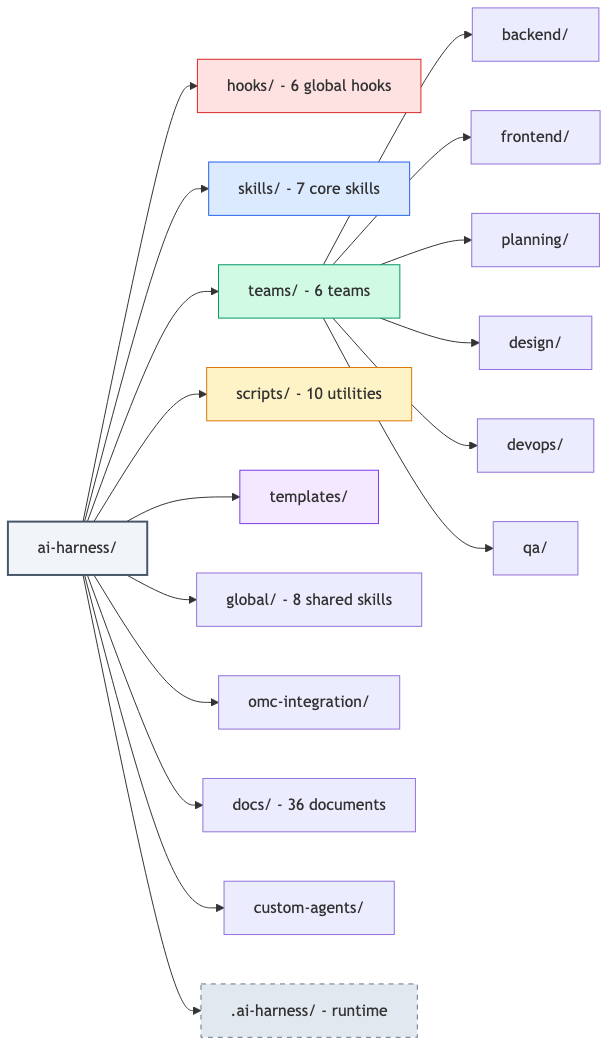
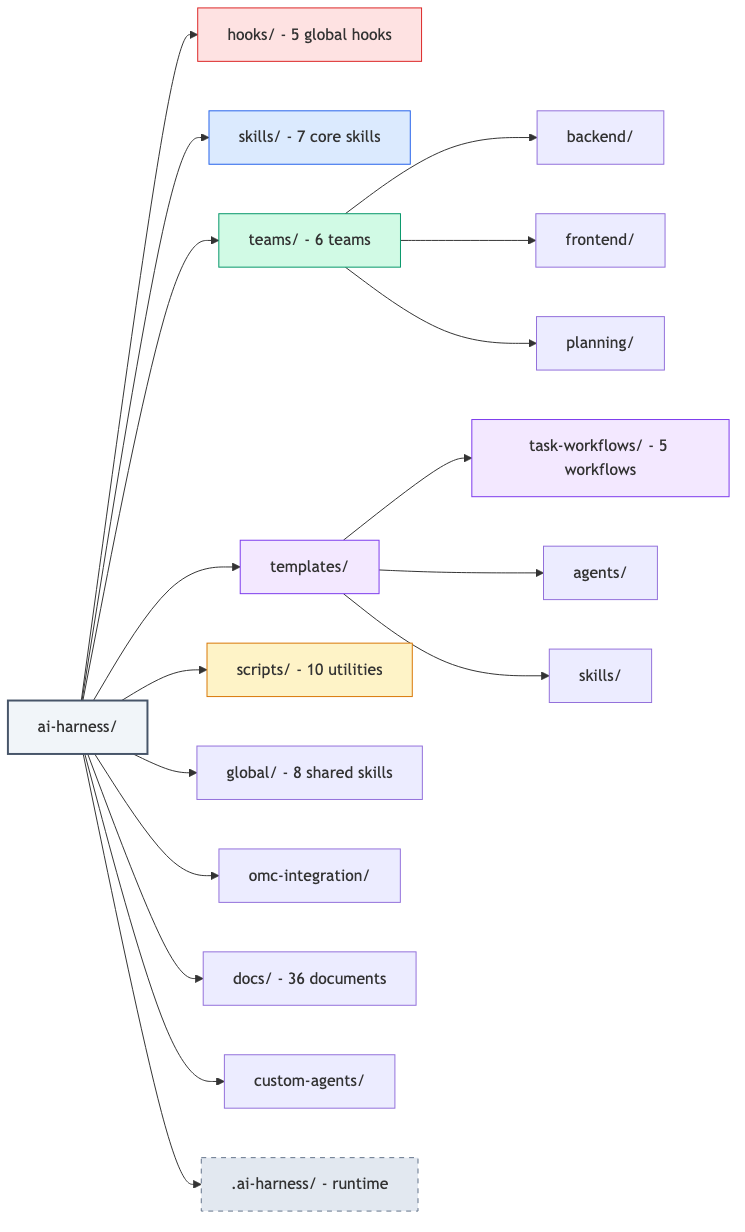
docs: 프로젝트 구조 최신화 — task-workflows 추가, deprecated 표시, 이미지 업데이트

diff --git a/README.md b/README.md
@@ -405,20 +405,25 @@ oh-my-claudecode와 함께 사용하면 ai-harness의 기능이 강화됩니다.
 
 ```
 ai-harness/
-├── hooks/          # 5개 글로벌 보안 Hook (.sh)
-├── skills/         # 7개 코어 관리 스킬 (harness-init, status, rules, team, exclude, metrics, scaffold)
-├── teams/          # 6개 팀 (planning, backend, frontend, design, devops, qa)
-│   ├── planning/bundle/   # Planner Bundle (16 agents + 26 skills)
-│   ├── backend/           # Hooks 4, Skills 5, Conventions
-│   └── frontend/          # Hooks 3, Skills 4, Conventions
-├── scripts/        # 10개 헬퍼 유틸리티 (Node.js + Bash)
-├── templates/      # 설정, 에이전트, 스킬, task-workflow 템플릿
-├── global/         # 8개 공통 스킬 (test-scenario, deploy-check, onboard 등)
-├── custom-agents/  # 회사 커스텀 에이전트
-├── omc-integration/# OMC 연동 (hook bridge + mode configs)
-├── docs/           # 설계 문서 (28개 기획 + 8개 SDD)
-├── .ai-harness/    # 런타임 상태 (init 후 생성)
-├── CLAUDE.md       # 플러그인 컨텍스트 (자동 주입)
+├── hooks/              # 5개 글로벌 보안 Hook (.sh)
+├── skills/             # 7개 코어 관리 스킬
+├── teams/              # 6개 팀
+│   ├── planning/bundle/  # Planner Bundle (16 agents + 26 skills)
+│   ├── backend/          # Hooks 4, Skills 5, Conventions
+│   └── frontend/         # Hooks 3, Skills 4, Conventions
+├── templates/
+│   ├── task-workflows/   # 5개 작업 유형별 워크플로우 (implement, bugfix, refactor, review, design)
+│   ├── agents/           # 에이전트 생성 템플릿
+│   ├── skills/           # 스킬 생성 템플릿
+│   ├── workflows/        # (deprecated) 팀 기반 워크플로우
+│   └── presets/          # (deprecated) 작업 프리셋
+├── scripts/            # 10개 헬퍼 유틸리티 (Node.js + Bash)
+├── global/             # 8개 공통 스킬 (test-scenario, deploy-check, onboard 등)
+├── custom-agents/      # 회사 커스텀 에이전트
+├── omc-integration/    # OMC 연동 (hook bridge + mode configs)
+├── docs/               # 설계 문서 (28개 기획 + 8개 SDD)
+├── .ai-harness/        # 런타임 상태 (init 후 생성)
+├── CLAUDE.md           # 플러그인 컨텍스트 (자동 주입)
 └── package.json
 ```
 
